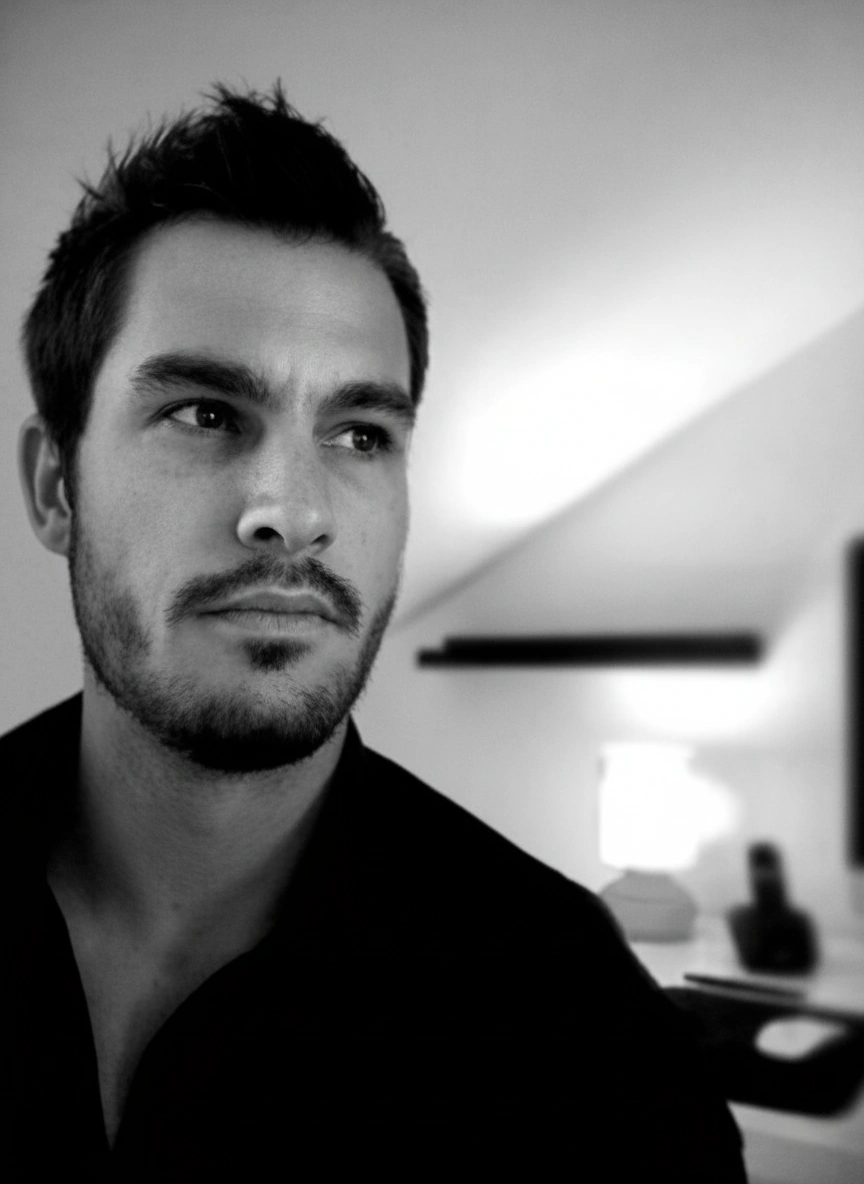
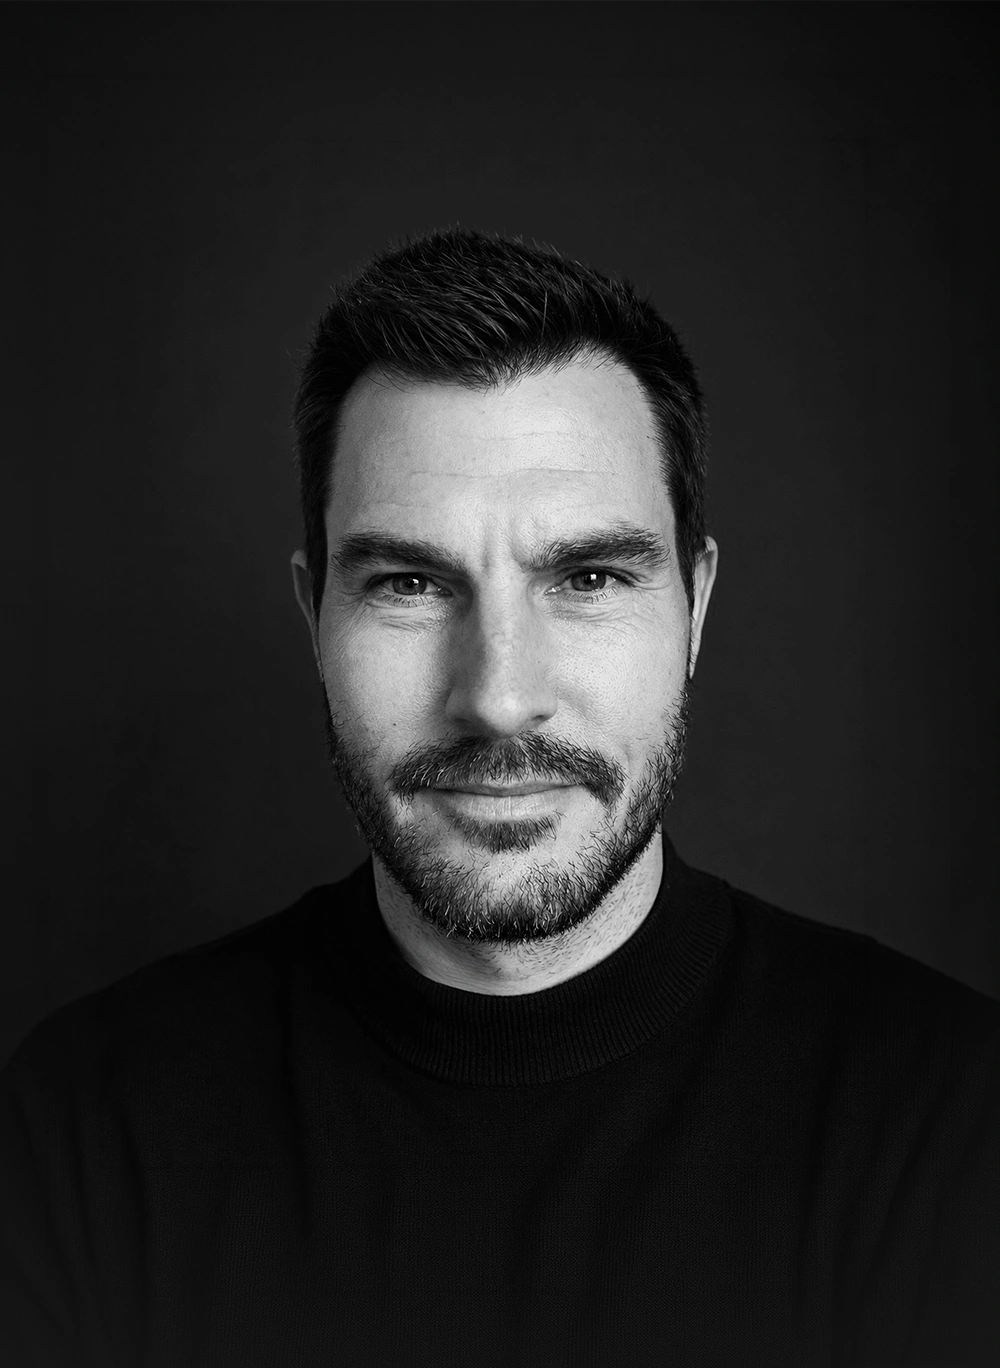
updates

diff --git a/layouts/index.html b/layouts/index.html
@@ -219,6 +219,31 @@
 				</a>
 			</div>
 
+			<div class="w-full relative projet md:mt-10 lg:mt-36">
+				<a href="https://la-lavandiere.fr/" target="_blank" rel="noopener noreferrer" aria-label="Voir le projet (ouvre dans un nouvel onglet)"
+					class="relative group flex flex-col items-start" data-cursor
+					data-cursor-text="Voir">
+					<div class="w-full relative overflow-hidden mb-6">
+						<div class="w-full rounded-2xl transform-gpu overflow-hidden relative bg-gray-50 lg:rounded-3xl">
+							<div class="w-full relative overflow-hidden">
+								<div class="w-full scale-100 transition-transform projet-fx">
+									<div class="relative overflow-hidden w-full" style="padding-top: 75%;">
+										<picture class="absolute top-0 left-0 w-full h-full">
+											<img src="/img/projets/lavandiere.webp" sizes="100vw" alt="La Lavandière"
+												class="relative z-10 w-full" loading="lazy" width="1200" height="900">
+										</picture>
+									</div>
+								</div>
+							</div>
+						</div>
+					</div>
+					<div class="flex items-center space-x-3 mb-2">
+						<div class="text-slate-400 text-base">Lavandière</div>
+					</div>
+					<h2 class="text-3xl text-white font-display pr-10">Conception et développement WordPress du site d'une société spécialisée dans le nettoyage professionnel.</h2>
+				</a>
+			</div>
+
 		</div>
 
 	</div>
@@ -331,7 +356,7 @@
 	<div class="lg:max-w-[60rem] mx-auto">
 		<div class="grid lg:grid-cols-3 gap-6 lg:gap-10 items-center">
 			<div>
-				<img class="photo-me w-48 lg:w-auto h-auto rounded-3xl" src="/img/anthony-blind.jpg" alt="Anthony Blind">
+				<img class="photo-me w-48 lg:w-auto h-auto rounded-3xl" src="/img/anthony-blind.webp" alt="Anthony Blind">
 			</div>
 			<div class="text-white lg:col-span-2">
 				<h2 class="font-display text-5xl lg:text-6xl mb-5">Au fait… moi, c’est <span